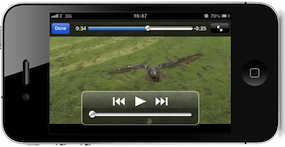
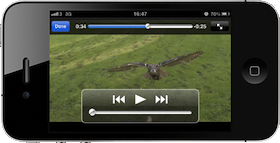
tightening css + images

diff --git a/css/style.css b/css/style.css
@@ -127,17 +127,16 @@ h1 em {
 }
 
 h2 {
-  display: inline;
   text-align: center;
   font-size: 24px;
   line-height: 1.7em;
-/*  margin-top: 12px;*/
   letter-spacing: -1px;
   font-weight: 100;
-/*  width: 760px;*/
+}
+
+h2 span {
   padding: 0 4px;
-  background: white;
-/*  padding-left: -2px;*/
+  background: white;  
 }
 
 h3 {
@@ -240,7 +239,7 @@ form #subscribed img {
   width: 10em;
   text-align: center;
   margin-right: -5em;
-  bottom: -6px;
+  bottom: -36px;
   font-size: 12px;
   color: #666 ;
 }
@@ -248,7 +247,7 @@ form #subscribed img {
 
 #main {
   background: #222;
-  padding:0px 0 20px;
+  padding:0px 0 24px;
   margin: 0 auto 0;
   position: relative;
 }
@@ -264,9 +263,9 @@ form #subscribed img {
 
 #click_block img {
   width: 275px;
-  margin-top: 80px;
+  margin-top: 100px;
   margin-bottom: 16px;
-  box-shadow: 0 1px 3px #000;
+/*  box-shadow: 0 1px 3px #000;*/
 }
 
 #video_block {
@@ -292,28 +291,27 @@ form #subscribed img {
 }
 
 #playback_block img {
-  margin-top: 104px;
-    margin-bottom: 16px;
+  margin-top: 108px;
+  margin-bottom: 38px;
   width: 285px;
 }
 
 
 footer {
-  margin-top: 36px;
+  margin-top: 42px;
   position: relative;
 }
 
 #about {
   position: relative;
-  top: 18px;
+  top: 72px;
   text-align: center;
 }
 
 #share {
   position: absolute;
   top: 2px;
-  right: 0;
-  width: 400px;
+  left: 780px;
   padding: 8px;
 }
 

diff --git a/index.html b/index.html
@@ -24,7 +24,7 @@
 	  // this happens here to make sure the url is set properly before the sharing buttons load
 	  var added = (window.location.hash == '#added');
 	  if (added) window.location.hash = '';
-  </script>
+	</script>
   
   
   <script type="text/javascript">
@@ -45,7 +45,7 @@
 		<header>
 		  <h1><a href="/"><img src="logo.png"></a></h1>
       <span class="soon">Coming soon</span>
-      <h2><b>Web videos</b> on your iPhone/iPad for <b>offline</b> viewing.  <b>No cables.</b> No hassle.</h2>  
+      <h2><span><b>Web videos</b> on your iPhone/iPad for <b>offline</b> viewing. <b>No cables.</b> No hassle.</span></h2>
 
 		</header>
 		
